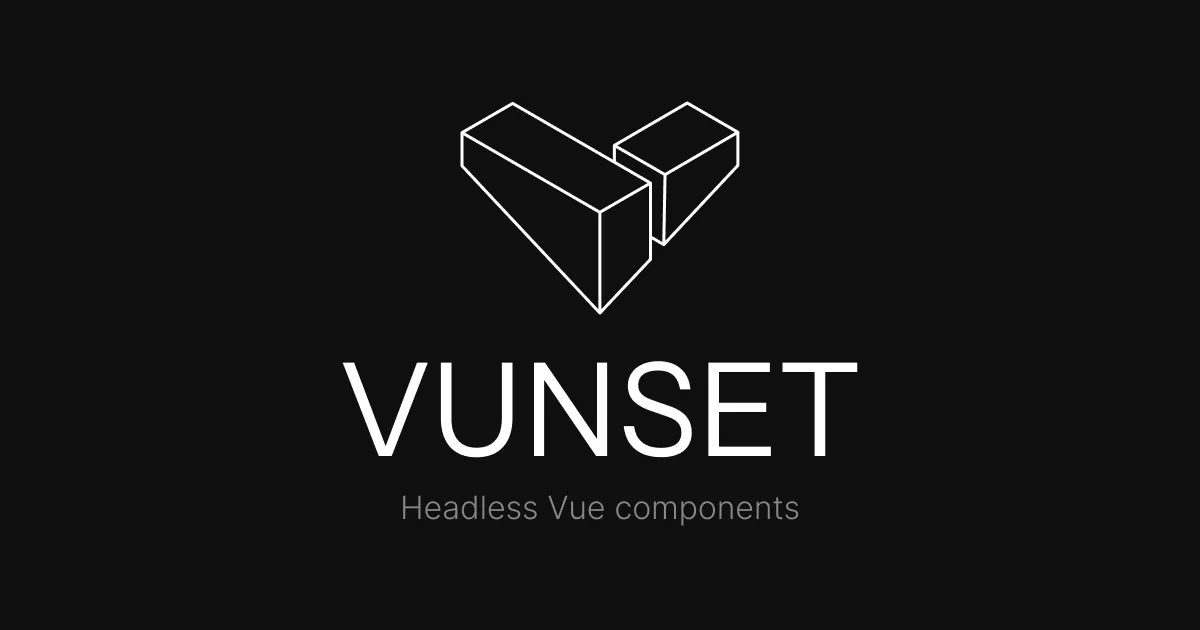
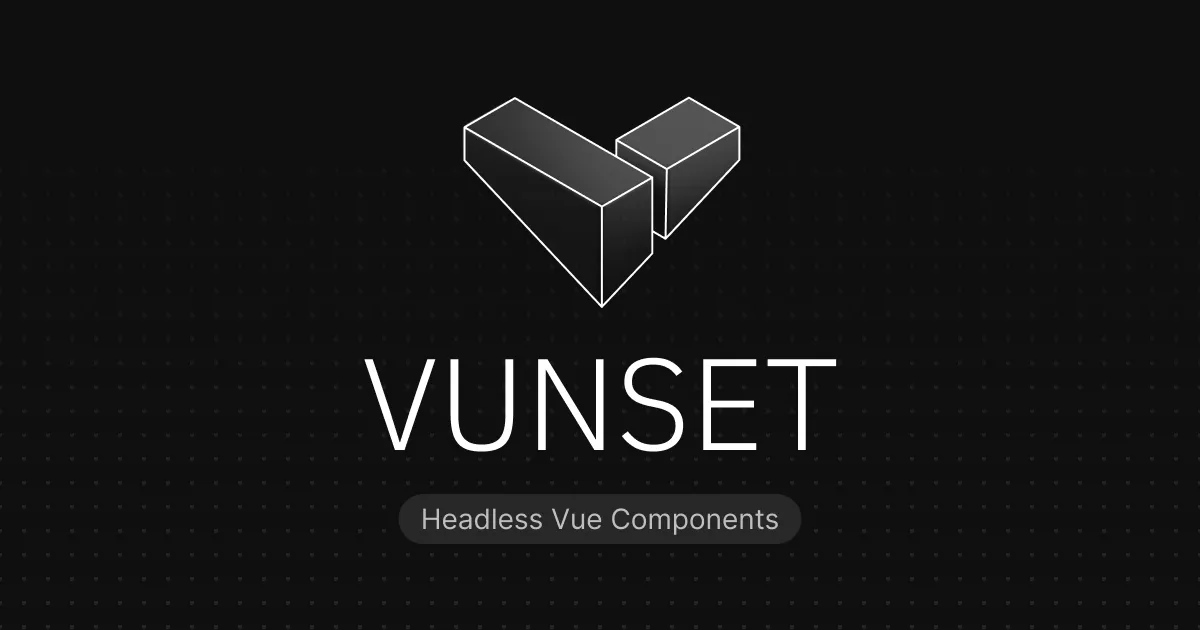
Update Docs

diff --git a/docs/.vitepress/theme/components/Logo.vue b/docs/.vitepress/theme/components/Logo.vue
@@ -1,0 +1,37 @@
+<script setup lang="ts">
+const pulse = (event: Event) => {
+  const path = event.target;
+
+  if (!(path instanceof SVGPathElement) || path.getAnimations().length) return;
+
+  path.animate([{ fillOpacity: 0 }, { fillOpacity: 0.7, offset: 0.35 }, { fillOpacity: 0 }], {
+    duration: 1000,
+    easing: 'ease'
+  });
+};
+</script>
+
+<template>
+  <svg xmlns="http://www.w3.org/2000/svg" fill="none" viewBox="0 0 165 42">
+    <g
+      stroke-width="1"
+      stroke-linejoin="round"
+      stroke="currentColor"
+      fill="currentColor"
+      fill-opacity="0"
+      @mouseover="pulse"
+    >
+      <path d="m39.4 27.9-2.6-1.5M30 12.3V9.1" />
+      <path d="m39.7 14.7-.3 13.2 14.1-15.1V6.5z" />
+      <path d="m43.9 1 9.6 5.5-13.8 8.2L30 9.1z" />
+      <path d="M27.3 21.8V41L1 12.9V6.6z" />
+      <path d="m36.9 16.3-9.6 5.5V41l9.6-10.2z" />
+      <path d="M10.6 1.1 1 6.6l26.3 15.2 9.6-5.5z" />
+    </g>
+
+    <path
+      fill="currentColor"
+      d="M76.2 30h-2l-6.1-18.1h1.7L73.2 22l2 6.4h.1l2-6.4 3.4-10.1h1.6zm9.2-18.1h1.5v11.2c0 1.3.2 2.4.4 3.3.3.8.8 1.5 1.5 1.9s1.6.6 2.8.6 2.1-.2 2.8-.6 1.2-1.1 1.5-1.9c.3-.9.4-2 .4-3.3V11.9h1.6v10.8c0 1.8-.2 3.2-.6 4.4-.4 1.1-1.1 1.9-2 2.4-.9.6-2.2.8-3.7.8-1.6 0-2.8-.2-3.7-.8-.9-.5-1.6-1.3-2-2.4-.3-1.2-.5-2.6-.5-4.4zM114.1 30l-7.2-11.8-2.4-4.2h-.1v16h-1.5V11.9h1.9l7.2 11.8 2.4 4.2h.1v-16h1.5V30zm11.8.3c-1.4 0-2.7-.3-3.7-.8-1-.6-1.9-1.3-2.6-2.3l1.2-.9c.6.8 1.4 1.5 2.2 1.9.8.5 1.8.7 3 .7 1.4 0 2.5-.3 3.2-1 .8-.6 1.1-1.6 1.1-2.8 0-.7-.1-1.3-.4-1.8-.3-.4-.7-.8-1.2-1.1-.6-.3-1.3-.5-2-.6l-1.6-.4c-1.2-.2-2.1-.6-2.8-1-.8-.4-1.3-1-1.7-1.6-.3-.7-.5-1.4-.5-2.2 0-1.1.3-2 .8-2.7.4-.7 1.1-1.2 2-1.6s1.9-.6 3.1-.6c1.3 0 2.4.3 3.4.8.9.5 1.7 1.1 2.3 2l-1.2.9c-.5-.7-1.1-1.3-1.8-1.7-.8-.4-1.7-.6-2.8-.6-1.3 0-2.4.3-3.1.9-.8.5-1.1 1.4-1.1 2.5 0 .7.1 1.3.4 1.8.3.4.8.8 1.3 1 .6.3 1.2.5 2 .7l1.6.3c1.2.2 2.2.6 2.9 1.1.7.4 1.2 1 1.5 1.7.3.6.5 1.3.5 2.2 0 1.1-.3 2-.7 2.8q-.75 1.2-2.1 1.8c-.9.4-1.9.6-3.2.6m20.6-.3h-10.6V11.9h10.6v1.3h-9v6.9h8.6v1.4h-8.6v7.1h9zm16-16.8h-6.1V30h-1.5V13.2h-6.1v-1.3h13.7z"
+    />
+  </svg>
+</template>

diff --git a/docs/.vitepress/theme/components/Header.vue b/docs/.vitepress/theme/components/Header.vue
@@ -4,19 +4,7 @@
       class="flex justify-between md:grid md:grid-cols-[1fr_auto_1fr] gap-x-6 md:px-2 items-center w-full pointer-events-auto"
     >
       <a :href="withBase('/')" class="inline-flex w-fit items-center gap-2">
-        <svg
-          class="h-8 w-10.5"
-          width="57"
-          height="44"
-          viewBox="0 0 57 44"
-          fill="none"
-          xmlns="http://www.w3.org/2000/svg"
-        >
-          <path d="M31 12V9L45 0.5L55 6L55 13L40 28L38 27M40 28L41 14M41 14L55 6M41 14L31 9" stroke="white" />
-          <path d="M38 16L28 22M0 6L0.5 13L28 42L38 31V16L10 0.5L0 6ZM28 22V42M28 22L0 6" stroke="white" />
-        </svg>
-
-        VUNSET
+        <Logo class="h-8" />
       </a>
 
       <TooltipGroup :delay="600">
@@ -108,6 +96,7 @@ import { computed } from 'vue';
 import { useData, withBase } from 'vitepress';
 import SearchDialog from './SearchDialog.vue';
 import MobileMenu from './MobileMenu.vue';
+import Logo from './Logo.vue';
 import { section } from '../sidebar';
 import {
   TooltipGroup,

diff --git a/docs/.vitepress/demos/chart/chart.css b/docs/.vitepress/demos/chart/chart.css
@@ -6,10 +6,10 @@
 
 .demo-chart,
 .demo-chart-legend {
-  --chart-color-0: rgb(255, 125, 125);
-  --chart-color-1: rgb(125, 255, 125);
-  --chart-color-2: rgb(125, 125, 255);
-  --chart-color-3: rgb(255, 125, 255);
+  --chart-color-0: light-dark(rgb(225, 70, 70), rgb(255, 125, 125));
+  --chart-color-1: light-dark(rgb(40, 170, 70), rgb(125, 255, 125));
+  --chart-color-2: light-dark(rgb(70, 70, 225), rgb(125, 125, 255));
+  --chart-color-3: light-dark(rgb(200, 60, 200), rgb(255, 125, 255));
 }
 
 .demo-chart {
@@ -147,11 +147,11 @@
   td {
     padding: 0.25rem 0.5rem;
     border-top: 1px dotted var(--demo-color-edge);
-  }
 
-  td:last-child {
-    text-align: right;
-    font-variant-numeric: tabular-nums;
+    &:last-child {
+      text-align: right;
+      font-variant-numeric: tabular-nums;
+    }
   }
 }
 

diff --git a/packages/ui/src/app/app-chart.css b/packages/ui/src/app/app-chart.css
@@ -123,6 +123,20 @@
     border-radius: 50%;
   }
 
+  :where(.inverted [data-part='tooltip-row']) {
+    --ui-scheme: light-dark(#000, #fff);
+  }
+
+  :where(.inverted [data-part='tooltip-swatch']) {
+    color-scheme: light;
+  }
+
+  @container style(--ui-scheme: #000) {
+    :where(.inverted [data-part='tooltip-swatch']) {
+      color-scheme: dark;
+    }
+  }
+
   :where([data-part='tooltip-label']) {
     color: var(--ui-text);
   }

diff --git a/docs/.vitepress/theme/style.css b/docs/.vitepress/theme/style.css
@@ -65,7 +65,8 @@
     --demo-color-backdrop: black;
   }
 
-  .demo-toast-viewport {
+  .demo-toast-viewport,
+  .demo-chart [data-part='chart-tooltip'] {
     --demo-color-canvas: color-mix(in oklab, var(--demo-color-backdrop) 97%, var(--demo-color-text));
   }
 

diff --git a/docs/index.md b/docs/index.md
@@ -2,7 +2,7 @@
 layout: home
 
 hero:
-  text: Headless Vue components, done right
+  text: Headless Vue Components
   tagline: Accessible, keyboard-ready parts with no styles attached. Bring your own design, or start pre-styled.
 
 packages:
